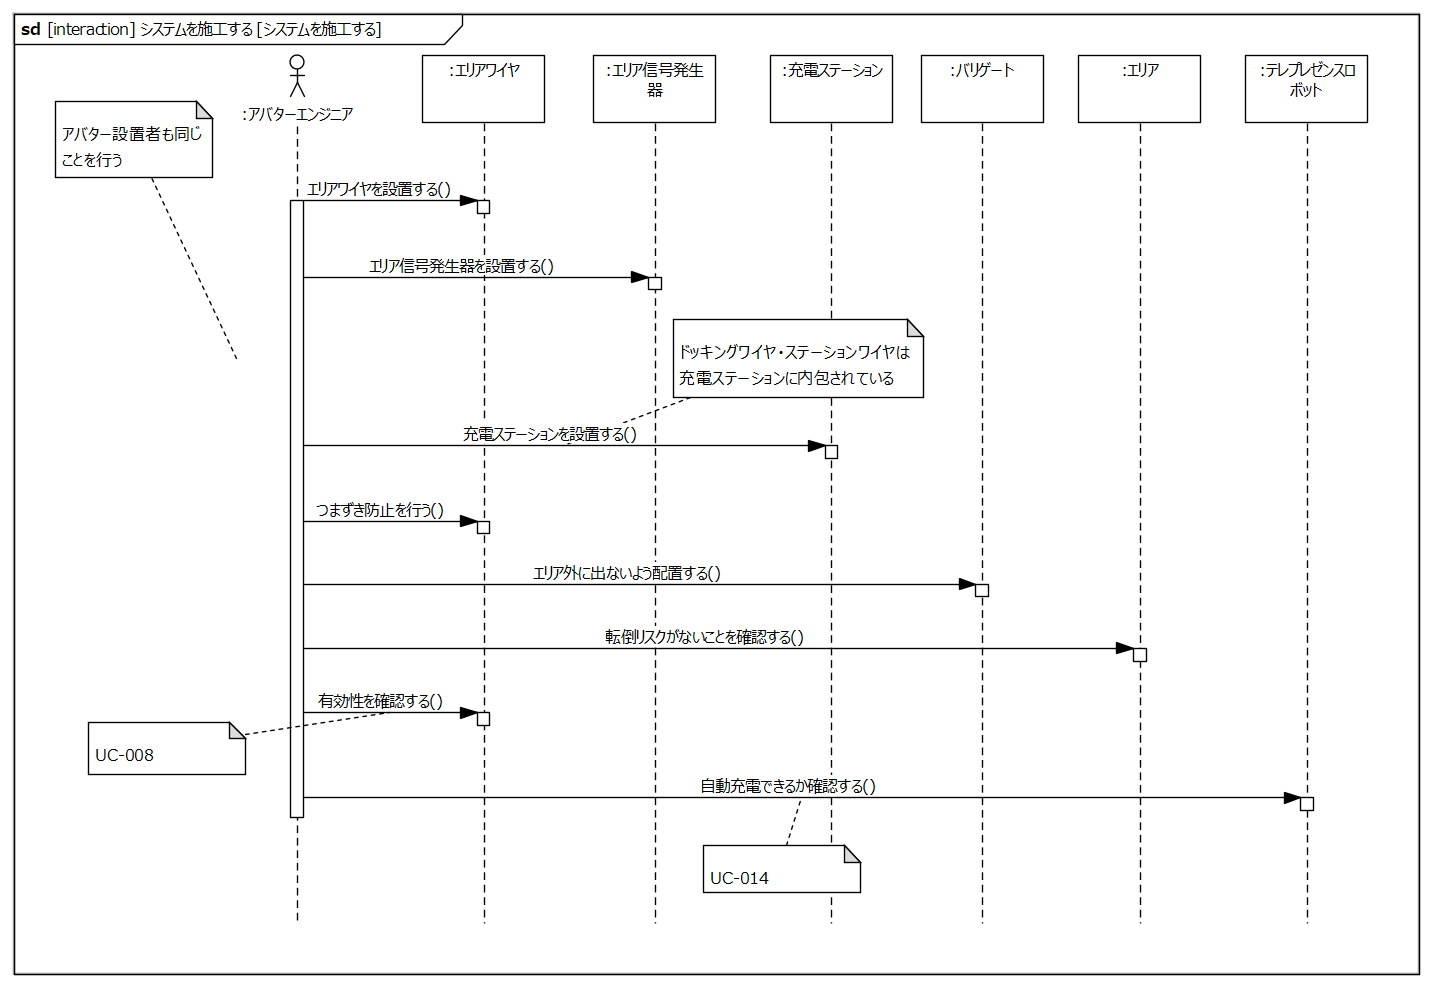
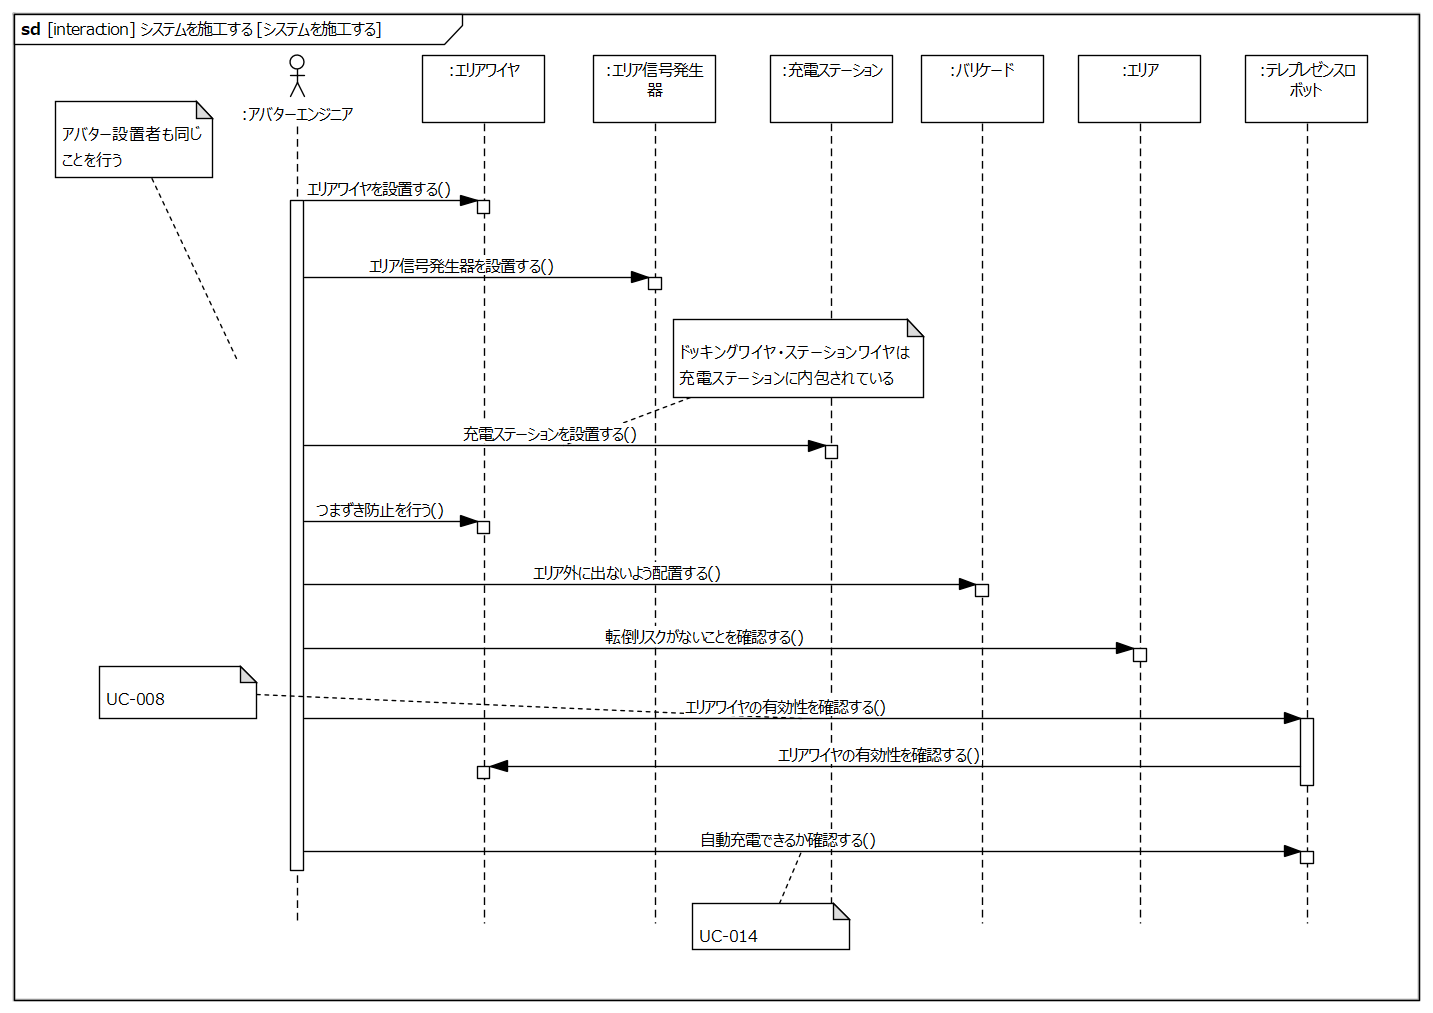
UC-025指摘事項修正

diff --git a/requirements/requirement.md b/requirements/requirement.md
@@ -832,8 +832,8 @@
 
 |要求|備考|
 |:---|:---|
-|有効性を確認する|（エリアワイヤの有効性）|
-|自動充電できるか確認する||
+|エリアワイヤの有効性を確認する|UC-008を実施することで有効性を確認する|
+|自動充電できるか確認する|UC-014を実施することで自動充電できるか確認する|
 
 <div style="page-break-before:always"></div>
 
@@ -851,8 +851,8 @@
 
 |ID|要求項目|関連するUC|備考|
 |:---|:---|:---|:---|
-|REQ-001|テレプレゼンスロボットの電源をONする|UC-001, UC-015, UC-025||
-|REQ-002|テレプレゼンスロボットの電源をOFFする|UC-001, UC-004, UC-015, UC-025||
+|REQ-001|テレプレゼンスロボットの電源をONする|UC-001, UC-015||
+|REQ-002|テレプレゼンスロボットの電源をOFFする|UC-001, UC-004, UC-015||
 |REQ-003|テレプレゼンスロボットとアバタークラウドの接続設定を行う|UC-001||
 |REQ-004|テレプレゼンスロボットの各センサーの状態を通知する|UC-002||
 |REQ-005|テレプレゼンスロボットの各センサーの状態を表示する|UC-002|ステータスランプのイメージ|
@@ -877,11 +877,11 @@
 |REQ-024|テレプレゼンスロボットの一時停止状態を解除する|UC-011, UC-012||
 |REQ-025|テレプレゼンスロボットの一時停止解除を通知する|UC-011, UC-012||
 |REQ-026|テレプレゼンスロボットは内部の異常を検知する|UC-012||
-|REQ-027|テレプレゼンスロボットを充電ステーションに接続する（充電を開始する）|UC-013, UC-025||
-|REQ-028|テレプレゼンスロボットを充電中に充電ステーションから取り外す|UC-013, UC-014, UC-025|遠隔操作でも外せる|
-|REQ-029|テレプレゼンスロボットは充電ステーションを検出する|UC-014, UC-025||
-|REQ-030|テレプレゼンスロボットは帰還指示により充電ステーションに自動でドッキングする（充電を開始する）|UC-014, UC-025||
-|REQ-031|テレプレゼンスロボットは充電状況を通知する|UC-014, UC-025||
+|REQ-027|テレプレゼンスロボットを充電ステーションに接続する（充電を開始する）|UC-013||
+|REQ-028|テレプレゼンスロボットを充電中に充電ステーションから取り外す|UC-013, UC-014|遠隔操作でも外せる|
+|REQ-029|テレプレゼンスロボットは充電ステーションを検出する|UC-014||
+|REQ-030|テレプレゼンスロボットは帰還指示により充電ステーションに自動でドッキングする（充電を開始する）|UC-014||
+|REQ-031|テレプレゼンスロボットは充電状況を通知する|UC-014||
 |REQ-032|テレプレゼンスロボットは自己診断結果を保存する|UC-015|UC-003も保存必要?|
 |REQ-033|テレプレゼンスロボットは少量の雨に対して防水できる|UC-016|一定雨量を超えた場合はカッパが必要|
 |REQ-034|テレプレゼンスロボットは周囲の明るさを確認する|UC-017||
@@ -915,7 +915,7 @@
 |状態を通知する|テレプレゼンスロボットの状態をアバタークラウドに通知する|・アバタークラウド|REQ-004,<br/>REQ-009,<br/>REQ-021,<br/>REQ-023,<br/>REQ-025,<br/>REQ-031,<br/>REQ-035|
 |データを送信する|バッテリ残量などのデータをアバタークラウドに送信する|・アバタークラウド|REQ-019|
 |シャットダウンする|テレプレゼンスロボットの使用を終了し電源を切る|・アバター設置者|REQ-002,<br/>REQ-007,<br/>REQ-032|
-|充電する|テレプレゼンスロボットを充電する|・充電ステーション<br/>・アバター設置者<br/>・アバターエンジニア|REQ-027,<br/>REQ-028|
+|充電する|テレプレゼンスロボットを充電する|・充電ステーション|REQ-027,<br/>REQ-028|
 |周囲の明るさを確認する|テレプレゼンスロボットの周囲の明るさを確認する||REQ-034|
 
 
